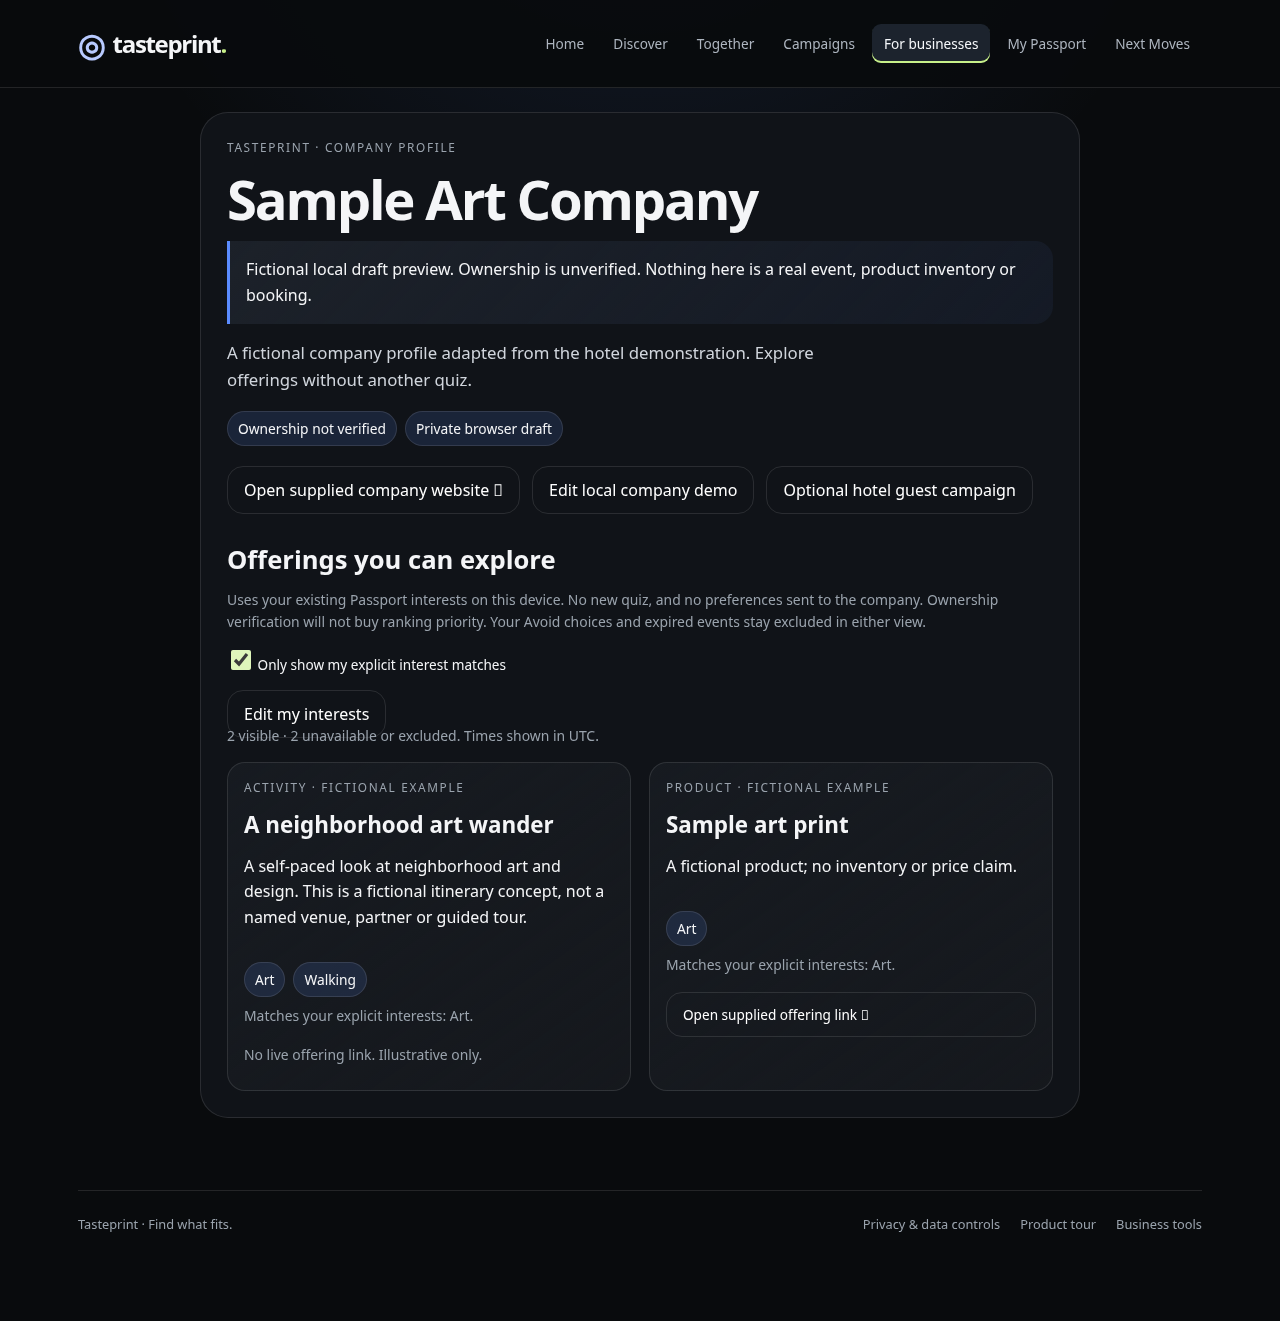
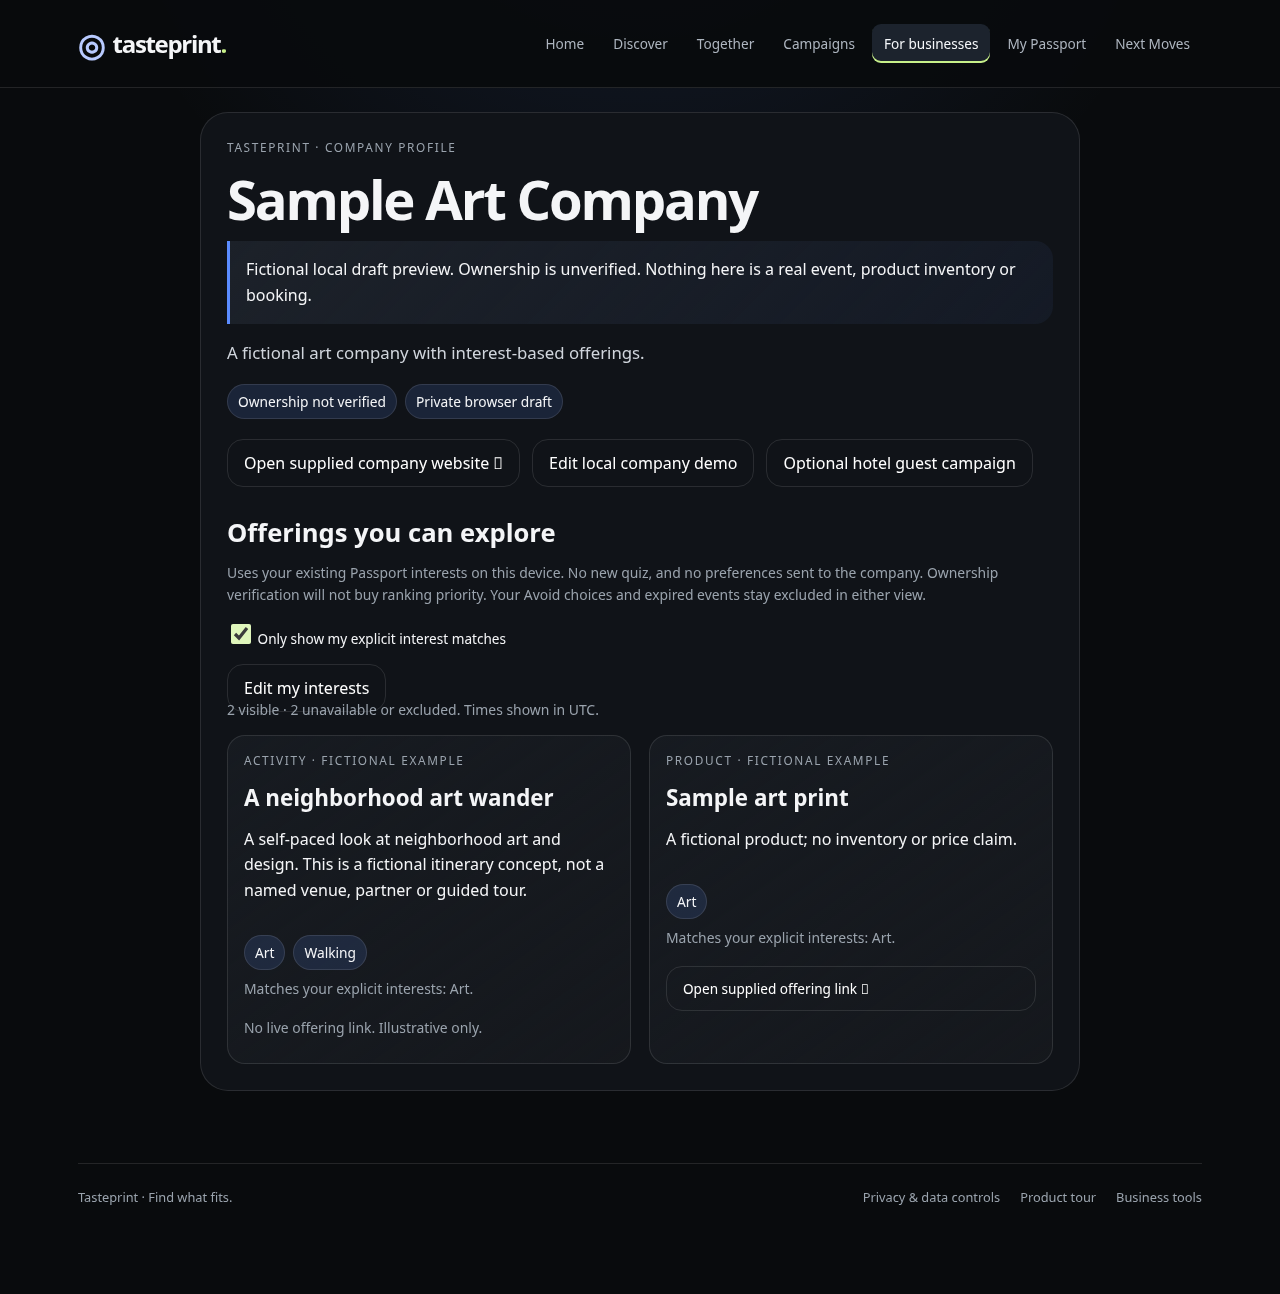
Keep company description labels stable for editing and assistive input

diff --git a/company.js b/company.js
@@ -33,8 +33,8 @@ if(route){
   const localTime=value=>{if(!value)return '';const date=new Date(value);return new Date(date.getTime()-date.getTimezoneOffset()*60000).toISOString().slice(0,16);};
   return `<p class="lede">Reuse the company catalog across discovery, Together and optional branded campaigns. This local slice previews the profile; authenticated publishing comes later.</p><div class="row"><a class="secondary" href="?workspace=1&demo=1">Existing Workspace demo</a><a class="secondary" href="?campaignAdmin=1">Existing Campaign Studio</a><button class="secondary" type="button" id="company-import">Import hotel Studio draft</button><button class="secondary" type="button" id="company-export">Export local draft</button></div>
    <details class="company-help"><summary>What will “verified company” mean?</summary><p class="small">A reviewed ownership claim tied to an authenticated Workspace and official website. It does not verify every event, promise availability, transfer user profiles or improve organic rank. Browser drafts cannot approve their own verification.</p></details>
-   <form id="company-profile" class="card"><h2>Company details</h2><p class="small">Use fictional details for this review. Drafts stay on this browser; saving does not publish.</p><label>Company name<input name="name" required maxlength="120" value="${esc(profile.name)}"></label><label>About the company<textarea name="about" required maxlength="600">${esc(profile.about)}</textarea></label><label>Company website (optional HTTPS)<input name="website" type="url" value="${esc(profile.website||'')}"></label><button type="submit" class="primary">Save profile draft</button></form>
-   <form id="company-post" class="card"><h2>${editing?'Edit offering':'Add an offering'}</h2><label for="company-post-category">Offering type</label><select id="company-post-category" name="category">${['activity','event','product'].map(type=>`<option value="${type}" ${post.category===type?'selected':''}>${type}</option>`).join('')}</select><label>Offering title<input name="title" required maxlength="120" value="${esc(post.title)}"></label><label>Offering description<textarea name="description" required maxlength="600">${esc(post.description)}</textarea></label><label>Offering website (optional HTTPS)<input name="url" type="url" value="${esc(post.action_url||'')}"></label>
+   <form id="company-profile" class="card"><h2>Company details</h2><p class="small">Use fictional details for this review. Drafts stay on this browser; saving does not publish.</p><label>Company name<input name="name" required maxlength="120" value="${esc(profile.name)}"></label><label for="company-about">About the company</label><textarea id="company-about" name="about" required maxlength="600">${esc(profile.about)}</textarea><label>Company website (optional HTTPS)<input name="website" type="url" value="${esc(profile.website||'')}"></label><button type="submit" class="primary">Save profile draft</button></form>
+   <form id="company-post" class="card"><h2>${editing?'Edit offering':'Add an offering'}</h2><label for="company-post-category">Offering type</label><select id="company-post-category" name="category">${['activity','event','product'].map(type=>`<option value="${type}" ${post.category===type?'selected':''}>${type}</option>`).join('')}</select><label>Offering title<input name="title" required maxlength="120" value="${esc(post.title)}"></label><label for="company-post-description">Offering description</label><textarea id="company-post-description" name="description" required maxlength="600">${esc(post.description)}</textarea><label>Offering website (optional HTTPS)<input name="url" type="url" value="${esc(post.action_url||'')}"></label>
    <fieldset><legend>Relevant interests (select what the offering actually supports)</legend><div class="interest-grid">${INTERESTS.map(tag=>`<label class="interest-share"><input type="checkbox" name="tags" value="${tag.id}" ${post.tags.includes(tag.id)?'checked':''}> ${esc(tag.label)}</label>`).join('')}</div></fieldset>
    <div id="company-event-times" ${post.category==='event'?'':'hidden'}><p class="small">Sample event times in ${esc(Intl.DateTimeFormat().resolvedOptions().timeZone)}. Both are required for an event; past events are excluded.</p><label>Event starts<input type="datetime-local" name="starts" value="${localTime(post.starts_at)}"></label><label>Event ends<input type="datetime-local" name="ends" value="${localTime(post.ends_at)}"></label></div><button type="submit" class="primary">${editing?'Update offering draft':'Add offering draft'}</button>${editing?'<button type="button" class="secondary" id="cancel-edit">Cancel edit</button>':''}</form>
    <h2 style="margin-top:24px">Draft offerings · ${profile.posts.length}/30</h2><div class="discovery-grid">${profile.posts.map(post=>`<article class="card"><h3>${esc(post.title)}</h3><p class="small">${esc(post.category)} · ${post.status==='withdrawn'?'Withdrawn':post.ends_at&&Date.parse(post.ends_at)<=Date.now()?'Expired':'Local draft'}</p><button type="button" class="secondary" data-edit-post="${esc(post.id)}">Edit</button><button type="button" class="secondary" data-withdraw-post="${esc(post.id)}" ${post.status==='withdrawn'?'disabled':''}>Withdraw</button></article>`).join('')}</div><div class="row" style="margin-top:22px"><a class="primary" href="?company=demo-hotel-clt&preview=1">Preview saved company draft</a><button class="secondary" type="button" id="company-clear">Clear company draft</button></div>`;

diff --git a/scripts/check-company-browser.js b/scripts/check-company-browser.js
@@ -6,7 +6,7 @@ try{
  await page.goto(root+'?business=1');await page.getByRole('link',{name:'Open local Company Studio',exact:true}).click();await page.getByRole('heading',{name:'Give your offerings a home.'}).waitFor();
  await page.locator('.company-help summary').focus();await page.keyboard.press('Enter');await page.getByText(/A reviewed ownership claim tied/).waitFor();
  const history=await page.evaluate(()=>localStorage.getItem('tasteprint.platform-history.v1'));
- await page.getByLabel('Company name',{exact:true}).fill('Sample Art Company');await page.getByLabel('Company website (optional HTTPS)',{exact:true}).fill('https://example.com');await page.getByRole('button',{name:'Save profile draft',exact:true}).click();
+ await page.getByLabel('Company name',{exact:true}).fill('Sample Art Company');await page.getByLabel('About the company',{exact:true}).fill('A fictional art company with interest-based offerings.');await page.getByLabel('Company website (optional HTTPS)',{exact:true}).fill('https://example.com');await page.getByRole('button',{name:'Save profile draft',exact:true}).click();
  await page.getByLabel('Offering type',{exact:true}).selectOption('product');await page.getByLabel('Offering title',{exact:true}).fill('Sample art print');await page.getByLabel('Offering description',{exact:true}).fill('A fictional product; no inventory or price claim.');await page.getByLabel('Offering website (optional HTTPS)',{exact:true}).fill('https://example.com/art');await page.locator('#company-post input[value=art]').check();await page.getByRole('button',{name:'Add offering draft',exact:true}).click();
  await page.getByLabel('Offering type',{exact:true}).selectOption('event');await page.getByLabel('Offering title',{exact:true}).fill('Expired sample event');await page.getByLabel('Offering description',{exact:true}).fill('Fictional event for expiry checks.');await page.locator('#company-post input[value=art]').check();await page.getByLabel('Event starts',{exact:true}).fill('2000-01-01T10:00');await page.getByLabel('Event ends',{exact:true}).fill('2000-01-01T11:00');await page.getByRole('button',{name:'Add offering draft',exact:true}).click();
  await page.evaluate(()=>localStorage.setItem('tasteprint.interests.v1',JSON.stringify({liked:['art'],disliked:['cooking']})));
